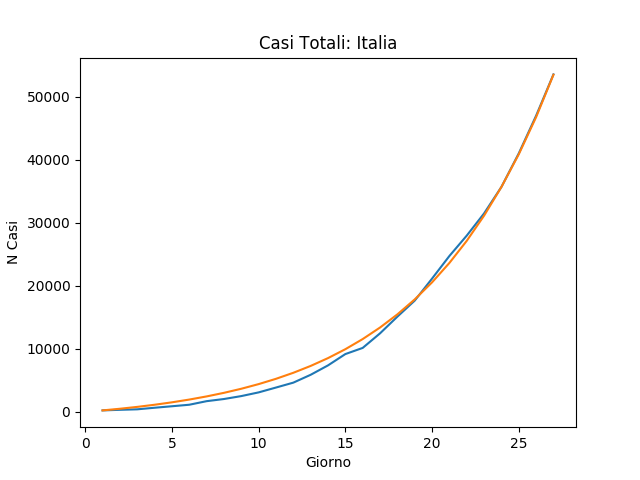
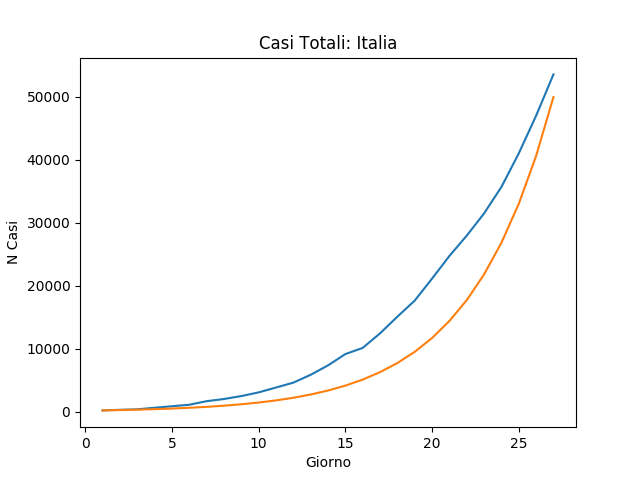
New routines with Pandas

diff --git a/paesi.py b/paesi.py
@@ -1,0 +1,97 @@
+#import seaborn
+import numpy as np
+import pandas as pd
+import matplotlib.pyplot as plt
+import scipy.optimize as so
+
+'''
+    DEFINIZIONE DI FUNZIONI GENERALI
+'''
+
+def new_cases(x):
+    n_x = len(x)
+    x_new = np.zeros((n_x - 1))
+
+    for i in range (1, n_x):
+        print(i, x[i], x[i-1])
+        x_new[i-1] = x[i] - x[i-1]
+        
+    return x_new
+
+
+def simple_exp(t, n0, r0):
+    t0 = 15
+    f0 = n0 * np.exp((r0 - 1)/t0 * t)
+        
+    return f0
+
+
+'''
+    INIZIO PROGRAMMA PRINCIPALE   
+'''
+
+regioni_csv = '/home/edoardo/CoronaVirus/data/World/csse_covid_19_data/csse_covid_19_time_series/time_series_covid19_confirmed_global.csv'
+df = pd.read_csv(regioni_csv)
+
+hd = df.head(0)
+head = hd.columns
+n_days = len(head) - 4
+days = np.arange(1, n_days)
+
+select_col = 'Country/Region'
+
+all_countries = df[select_col].unique()
+
+offset = 25
+
+countries = ['Japan', 'Serbia', 'Spain', 'Italy']
+
+plt.title(select_col)
+plt.xscale('log')
+plt.yscale('log')
+plt.ylim([1, 2.e+4])
+
+for country in countries:
+    confirmed = df[df[select_col] == country]
+    this_row = confirmed.iloc[0]
+    #print(this_row, type(this_row))
+    #y_data = this_row[5:n_days-1]
+    #print(confirmed)
+    #print(y_data[0:10])
+
+    y_data = pd.to_numeric(this_row[4:n_days+3])
+    diff_data = new_cases(y_data)
+    #plt.plot(days, y_data, label = country, marker = 'o')
+    #print(diff_data, len(y_data))
+    #plt.plot(days[1+offset:n_days], diff_data[offset:n_days], label = country, marker = 'o')
+    plt.scatter(days[1+offset:n_days], diff_data[offset:n_days], label = country, marker = 'o')
+
+plt.legend()
+plt.show()
+
+
+'''
+
+deceduti = df['deceduti'][df['denominazione_regione'] == 'Abruzzo']
+totale_casi= df['totale_casi'][df['denominazione_regione'] == 'Abruzzo']
+
+n_days = len(totale_casi)
+days = np.arange(1, n_days+1)
+
+#column_name = 'deceduti'
+column_name = 'nuovi_positivi'
+
+#plt.xscale('log')
+plt.yscale('log')
+plt.title(column_name)
+
+for regione in nomi_regioni:
+    values = df[column_name][df['denominazione_regione'] == regione]
+    plt.plot(days, values, label=regione)
+
+#plt.legend([0.1, 0.7, 0.3, 0.9])
+#plt.legend('upper left')
+plt.legend()
+plt.show()
+
+'''

diff --git a/analysis.py b/analysis.py
@@ -1,4 +1,7 @@
 import numpy as np
+import scipy.optimize as so
+
+
 
 def simple_exp(R, t0, n_day, n0):
     n_tot = np.zeros((n_day))
@@ -31,6 +34,89 @@ def simple_exp(R, t0, n_day, n0):
     return [n_tot, n_cum, predicted]
 
 
+def exp(t, n0, mu0):
+
+    #mu = (R - 1) / t0
+    #mu0 = (1.5) / 14.0
+    
+    e = n0 * np.exp(t * mu0)
+
+    return e
+
+
+def exp0(t, mu0):
+
+    #mu = (R - 1) / t0
+    #mu0 = (1.5) / 14.0
+    n0 = 229.0
+
+    e = n0 * np.exp(t * mu0)
+
+    return e
+
+def linear(x, A, B):
+    return A * x + B
+
+
+def linearize_fit(xdata, ydata, params):
+
+    n_pts = len(xdata)
+    lnx = np.zeros((n_pts))
+    lny = np.zeros((n_pts))
+
+    for i in range(0, n_pts):
+        lnx[i] = np.log(xdata[i])
+        lny[i] = np.log(ydata[i])
+
+    popt, pcov = so.curve_fit(linear, lnx, lny)  
+
+    print(popt)
+
+    n0 = np.exp(popt[0])
+    mu = np.exp(popt[1])
+
+    print('LinFit: ', n0, mu)
+
+
+def fit_exp(xdata, ydata, params):
+
+    popt, pcov = so.curve_fit(exp, xdata, ydata) #, p0=params, method='lm')
+    #popt, pcov = so.curve_fit(exp0, xdata, ydata, p0=params[1], method='lm')
+    print('Init params: ', params)
+    #popt, pcov = so.curve_fit(exp, xdata, ydata) #, p0=params, method='lm')
+    
+
+    n0 = params[0]
+    #n0 = 229.0
+    t0 = 14.0
+    R0 = t0 * (params[1]) + 1
+    nf = popt[0]
+    #Rf = t0 * (popt[1]) + 1
+    Rf = t0 * (popt) + 1
+
+
+    #print('Popt: ', popt) #' pcov: ', pcov)
+    #print('n0: ', n0, ' nf: ', nf, popt[0], ' R0: ', R0, ' Rf: ', Rf, popt[1])
+    #print('n0: ', n0, ' nf: ', nf, ' R0: ', R0, ' Rf: ', Rf, popt[0])
+    
+    return [t0, nf, Rf]
+
+def moving_average(data, n_avg):
+
+    w0 = 0.75
+    w1 = 0.25
+    w2 = 0.33
+
+    n_pts = len(data)
+
+    for i in range(0, n_pts):
+        if i == 0:
+            new_pt = (data[0] * w0 + data[1] * w1)
+        elif i == n_pts -1:
+            new_pt = (data[i] * w0 + data[i-1] * w1)
+        else:
+            new_pt = w2 * (data[i] + data[i-1] + data[i+1])
+
 
 def error_prediction(data_real, data_simu):
     
@@ -57,6 +143,7 @@ def mutiple_R_exp(Rs, t0s, n_days):
 
     for d in n_days:
         tot_days += d
+
 
 
 

diff --git a/main_italia.py b/main_italia.py
@@ -22,6 +22,7 @@ output_name = fout +  'Italia.png'
 #R = 3.57; t0 = 14.0
 R = 2.95; t0 = 15.0
 
+mu = (R - 1) / t0
 
 '''
     Init program
@@ -31,6 +32,7 @@ data = rc.read_all_files(base_data, month_start, month_end, f_type)
 
 n_pts = len(data)
 print('Trovati dati per ', n_pts, ' giorni.')
+
 
 
 '''
@@ -44,22 +46,39 @@ n0 = dati_ordinati[0]
 [dati_exp, cum_exp, pred] = al.simple_exp(R, t0, n_pts, n0)
 
 sig = al.error_prediction(dati_ordinati, dati_exp)
-#print(al.error_prediction(dati_ordinati, dati_exp))
+#al.linearize_fit(giorni, dati_ordinati, [n0, mu])
+
+t0 = 14.0
+[t0, nf, Rf] = al.fit_exp(giorni, dati_ordinati, [n0, mu])
+
+[dati_fit_exp, dati_fit_cum_exp, pred] = al.simple_exp(Rf, t0, n_pts, n0)
 
 print('Prediction + error: ', sig * pred + pred)
+
+
+'''
+print(dati_ordinati)
+print(dati_fit_exp)
+#print(dati_fit_cum_exp)
+'''
 
 '''
     Plot data   
 '''
+
+#plt.yscale('log')
 plt.plot(giorni, dati_ordinati)
 
-if col == 7:
+if col == 7 or col == 6:
     plt.plot(giorni, dati_exp)
+    plt.plot(giorni, dati_fit_exp)
 
 elif col == 10:
-    plt.plot(giorni, cum_exp)
+#    plt.plot(giorni, cum_exp)
+    plt.plot(giorni, dati_fit_exp)
 
 elif col == 9:
+    plt.plot(giorni, dati_cum_exp)
     plt.plot(giorni, cum_exp)
 
 plt.title(title)

diff --git a/new_regioni.py b/new_regioni.py
@@ -1,0 +1,43 @@
+#import seaborn
+import numpy as np
+import pandas as pd
+import matplotlib.pyplot as plt
+
+
+regioni_csv = '/home/edoardo/CoronaVirus/data/Italia/COVID-19/dati-regioni/dpc-covid19-ita-regioni.csv'
+df = pd.read_csv(regioni_csv)
+
+hd = df.head(0)
+head = hd.columns
+
+for h in head:
+    print(h)
+
+#nomi_regioni = df['denominazione_regione'].unique()
+#print(nomi_regioni)
+
+nomi_regioni = ['Veneto', 'Lombardia', 'Emilia-Romagna', 'Lazio']
+
+deceduti = df['deceduti'][df['denominazione_regione'] == 'Abruzzo']
+totale_casi= df['totale_casi'][df['denominazione_regione'] == 'Abruzzo']
+
+n_days = len(totale_casi)
+days = np.arange(1, n_days+1)
+
+#column_name = 'deceduti'
+column_name = 'nuovi_positivi'
+
+#plt.xscale('log')
+plt.yscale('log')
+plt.title(column_name)
+
+for regione in nomi_regioni:
+    values = df[column_name][df['denominazione_regione'] == regione]
+    plt.plot(days, values, label=regione)
+
+#plt.legend([0.1, 0.7, 0.3, 0.9])
+#plt.legend('upper left')
+plt.legend()
+plt.plot()
+plt.show()
+

diff --git a/main_regioni.py b/main_regioni.py
@@ -13,14 +13,14 @@ f_type = 'regioni'
 month_start = 2
 month_end = 3
 
-#region = 2; region_name = 'Lombardia'
+region = 2; region_name = 'Lombardia'
 #region = 4; region_name = 'Veneto'
-region = 11; region_name = 'Lazio'
+#region = 11; region_name = 'Lazio'
 #region = 6; region_name = 'Liguria'
 #region = 5; region_name = 'FriuliVeneziaGiulia'
 
-#col = 11;   title = 'Nuovi Positivi: ' + region_name; fout = 'casi_nuovi_'
-col = 14;   title = 'Casi Totali: ' + region_name; fout = 'casi_totali_'
+#col = 11;   title = 'Nuovi Positivi: ' + region_name; fout = 'output/casi_nuovi_'
+col = 14;   title = 'Casi Totali: ' + region_name; fout = 'output/casi_totali_'
 
 output_name = fout + region_name + '.png'
 
@@ -30,7 +30,7 @@ if region == 2:
 
 # Parametri Veneto
 elif region == 4:
-    R = 2.4; t0 = 14.0
+    R = 2.5; t0 = 14.0
 
 # Parametri Lazio
 elif region == 11:
